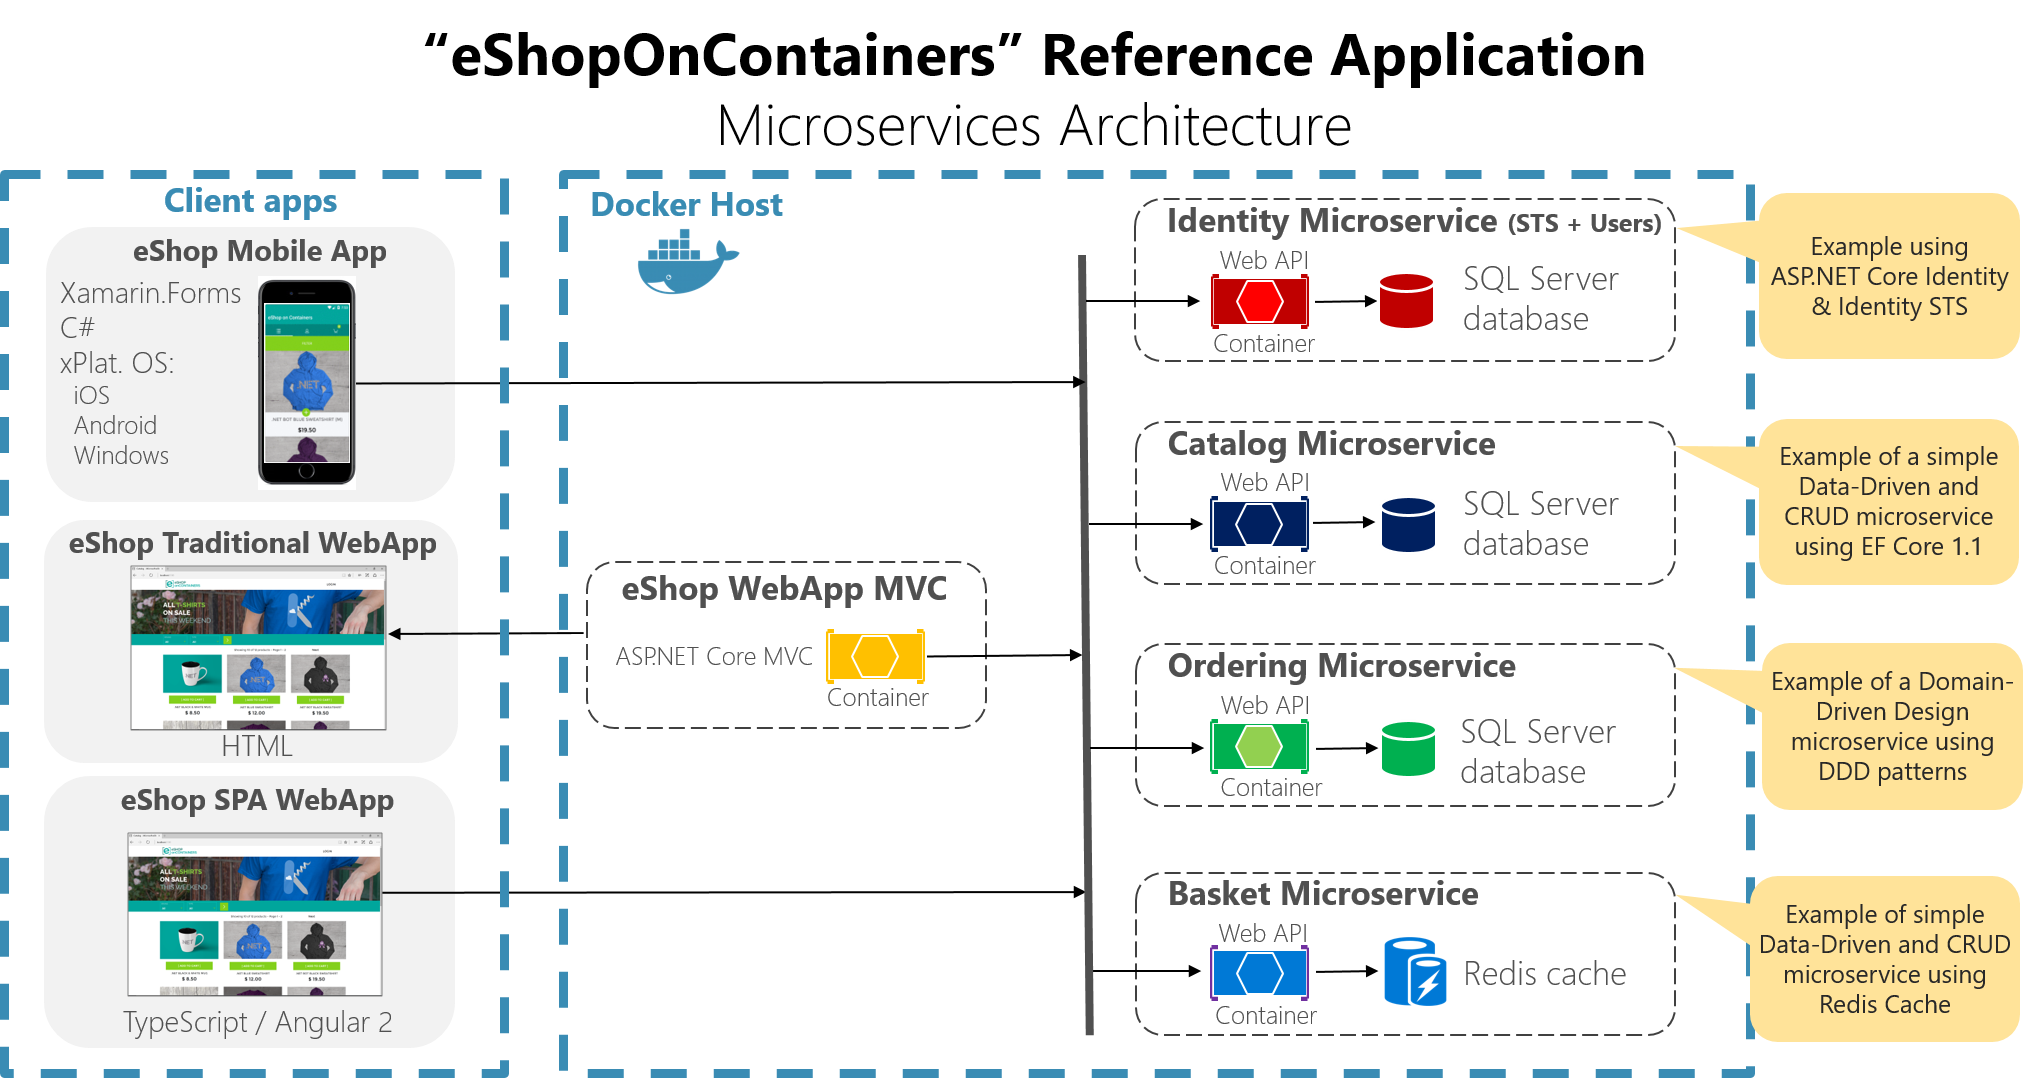
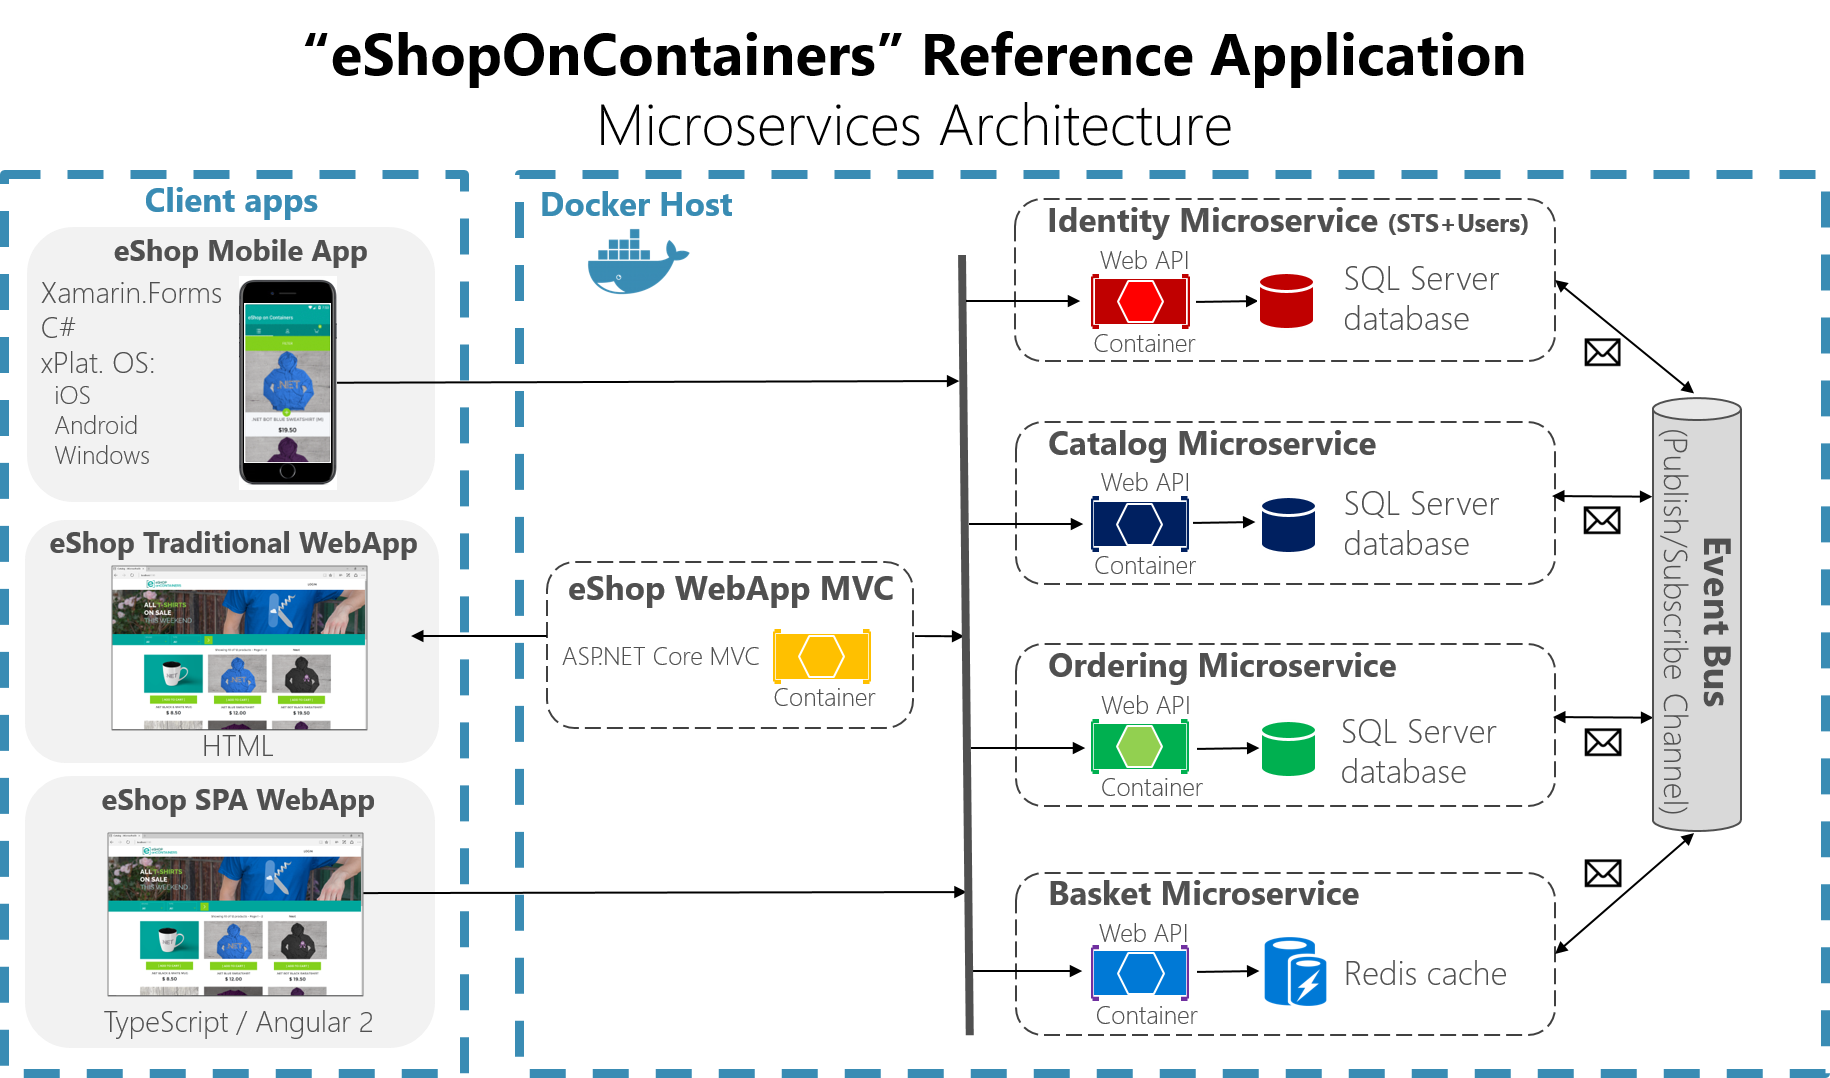
Updated with new Architecture Diagram including the Event Bus

diff --git a/README.md b/README.md
@@ -14,10 +14,13 @@ Sample .NET Core reference application, powered by Microsoft, based on a simplif
 **Architecture overview**: This reference application is cross-platform either at the server and client side, thanks to .NET Core services capable of running on Linux or Windows containers depending on your Docker host, and to Xamarin for mobile apps running on Android, iOS or Windows/UWP plus any browser for the client web apps. 
 The architecture proposes a simplified microservice oriented architecture implementation with multiple autonomous microservices (each one owning its own data/db) and implementing different approaches within each microservice (simple CRUD vs. DDD/CQRS patterns) using Http as the current communication protocol. 
 <p>
-The plan is to add asynchronous communication for data updates propagation across multiple services based on integration events and an event bus plus other features defined at the <a href='https://github.com/dotnet/eShopOnContainers/wiki/01.-Roadmap-and-Milestones-for-future-releases'>roadmap</a>. 
+It also supports asynchronous communication for data updates propagation across multiple services based on Integration Events and an Event Bus plus other features defined at the <a href='https://github.com/dotnet/eShopOnContainers/wiki/01.-Roadmap-and-Milestones-for-future-releases'>roadmap</a>. 
 <p>
 <img src="img/eshop_logo.png">
 <img src="img/eShopOnContainers_Architecture_Diagram.png">
+<p>
+The microservices are different in type, meaning different internal architecture patterns approaches depending on it purpose, as shonw in the image below.
+<img src="img/eShopOnContainers_Types_Of_Microservices.png">
 <p>
 <p>
 Additional miroservice styles with other frameworks and No-SQL databases will be added, eventually. This is a great opportunity for pull requests from the community, like a new microservice using Nancy, or even other languages like Node, Go, Python or data containers with MongoDB with Azure DocDB compatibility, PostgreSQL, RavenDB, Event Store, MySql, etc. You name it! :)
@@ -88,7 +91,7 @@ The app was also partially tested on "Docker for Mac" using a development MacOS 
 
 ## Sending feedback and pull requests
 As mentioned, we'd appreciate to your feedback, improvements and ideas.
-You can create new issues at the issues section, do pull requests and/or send emails to eshop_feedback@service.microsoft.com
+You can create new issues at the issues section, do pull requests and/or send emails to **eshop_feedback@service.microsoft.com**
 
 ## Questions
 [QUESTION] Answer +1 if the solution is working for you (Through VS2017 or CLI environment):
